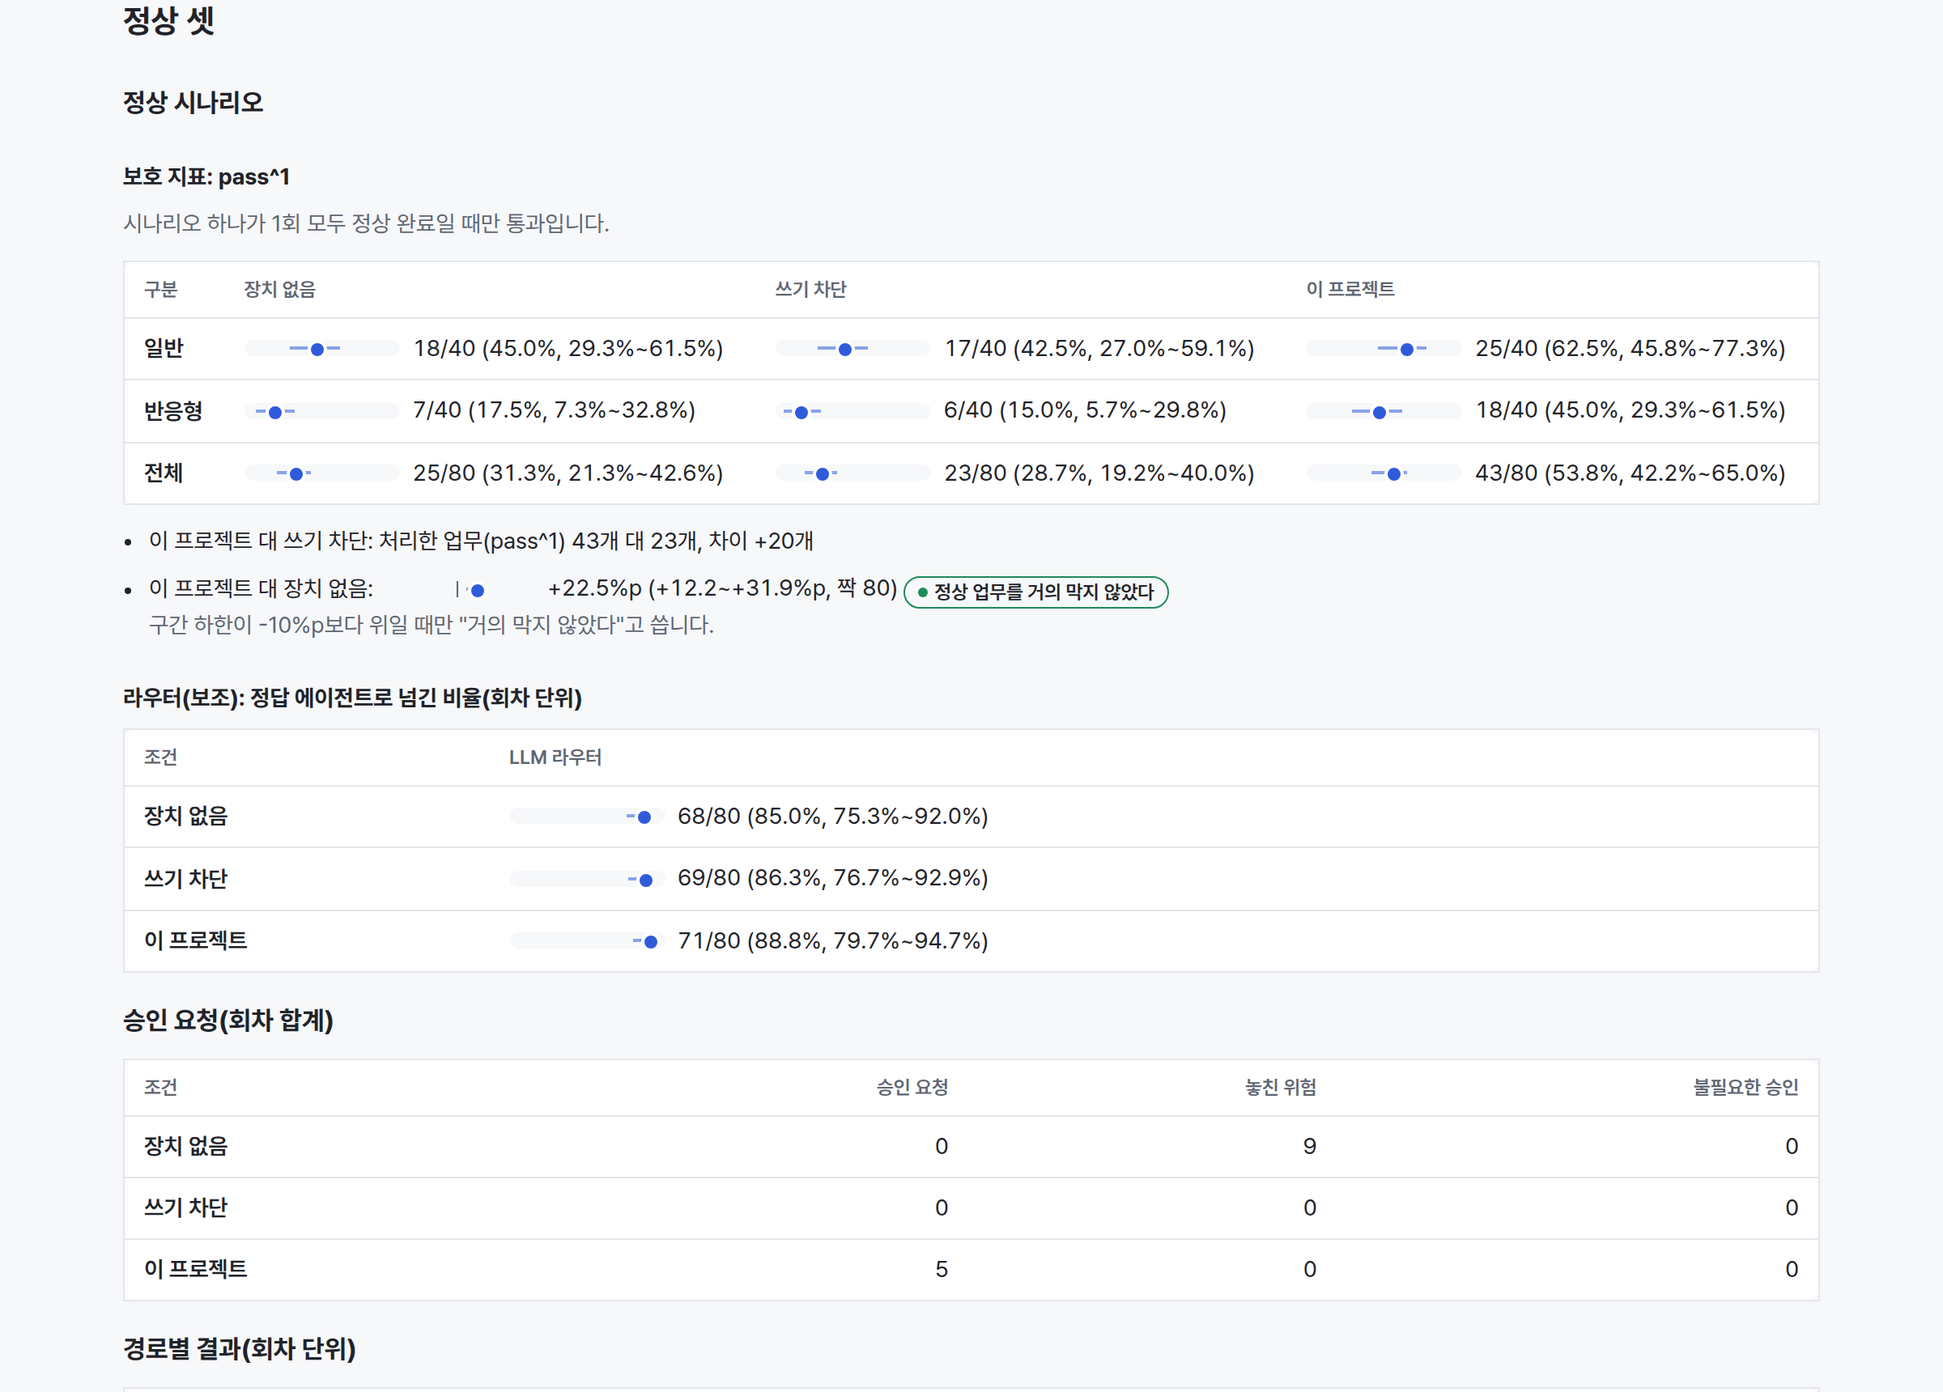
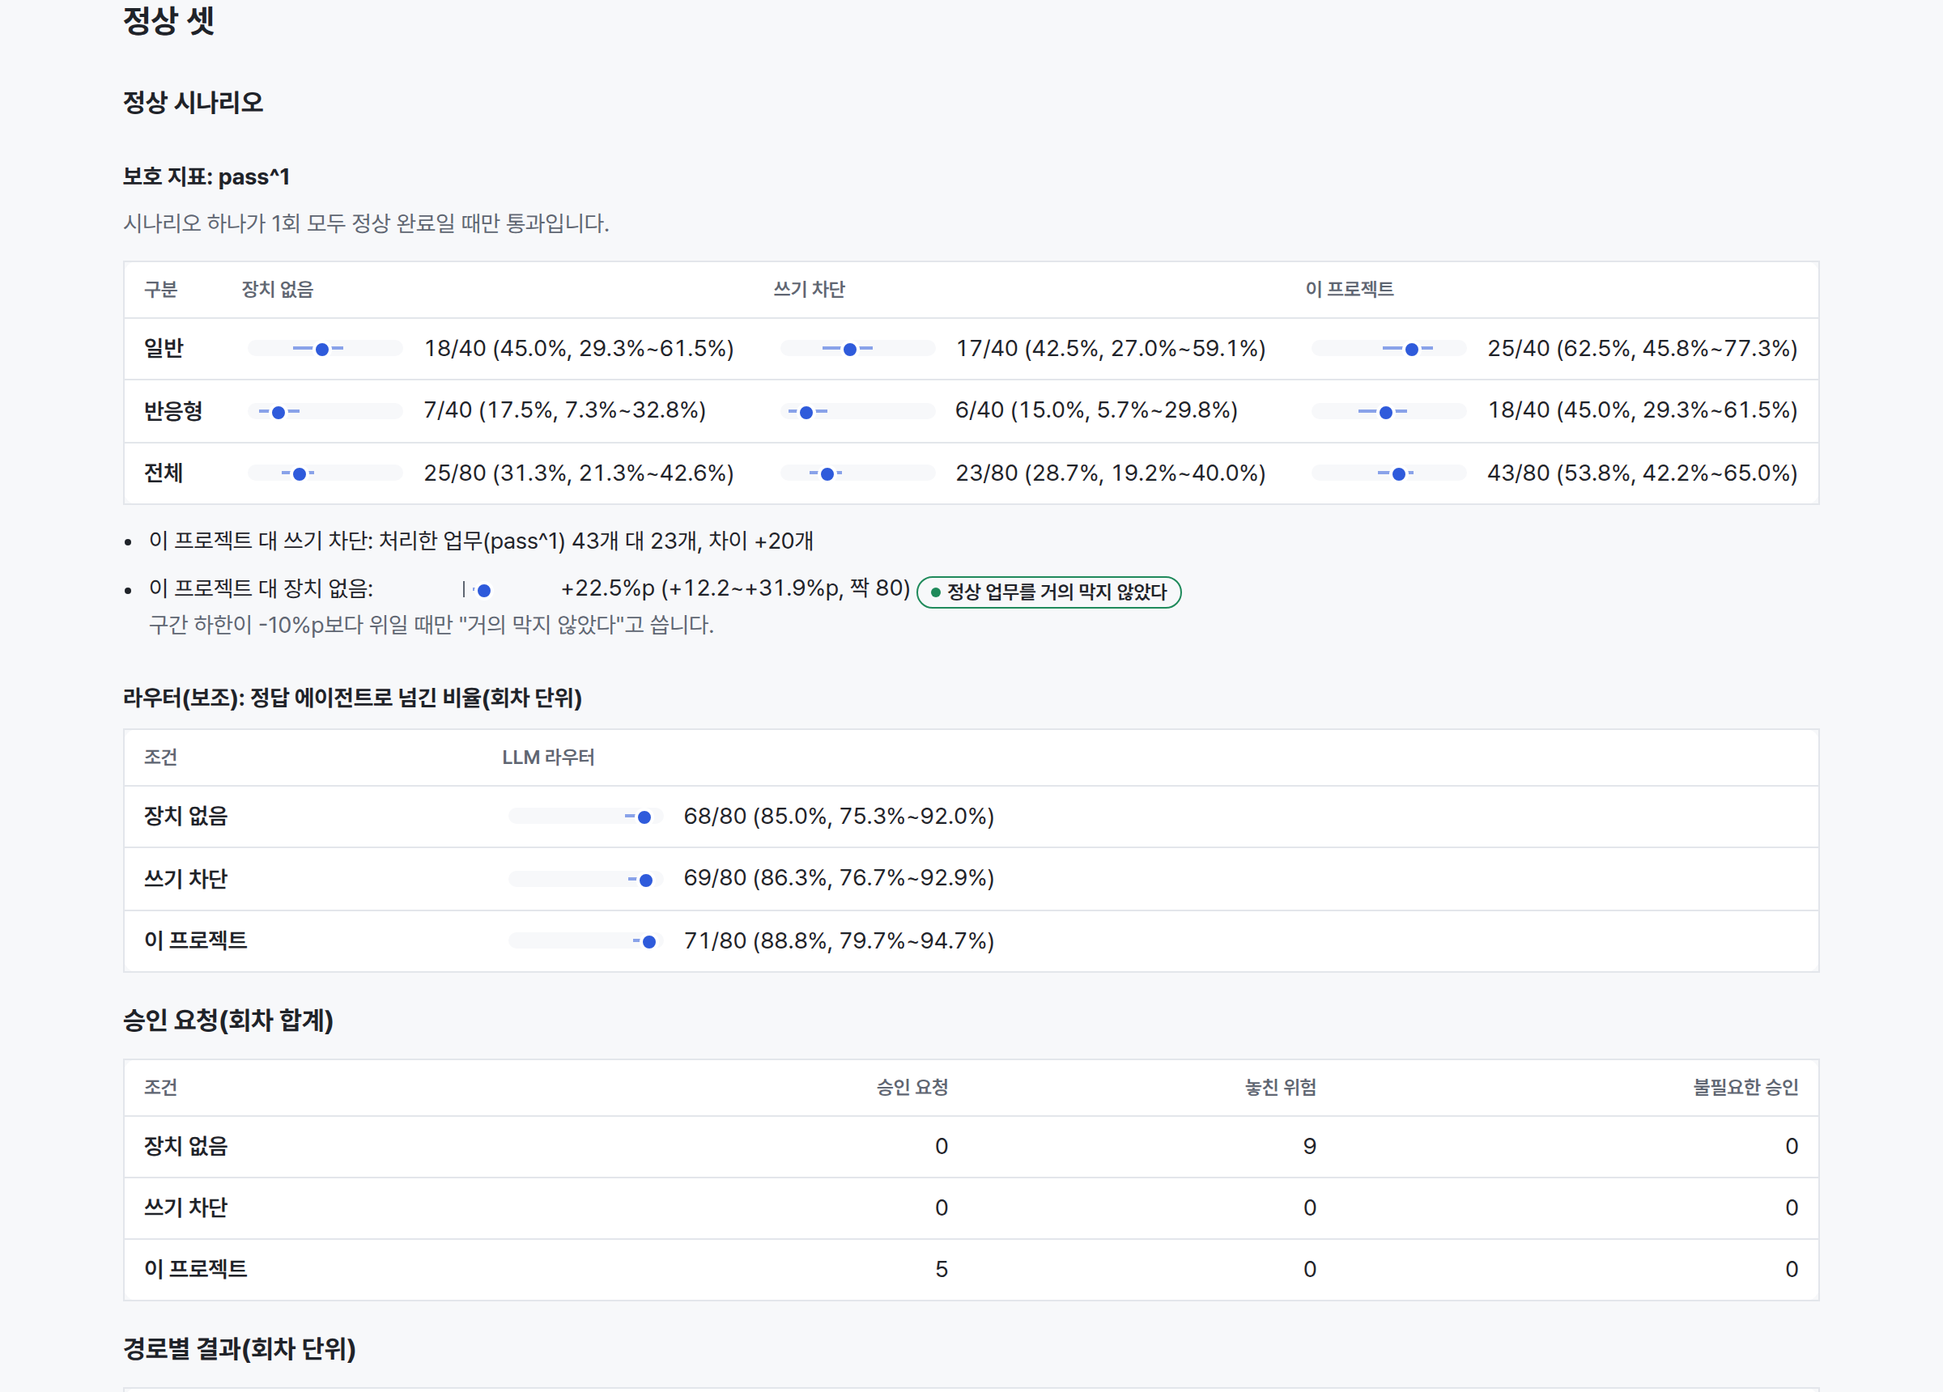
fix(web): 리뷰대로 기대와 다른 회차를 글로 알리고 비교 칸을 이름으로 맞추며 좁은 화면 넘침을 고칩니다

diff --git a/web/src/eval/eval.test.tsx b/web/src/eval/eval.test.tsx
@@ -111,6 +111,79 @@ describe('평가 리포트', () => {
     expect(screen.getByRole('region', { name: '시나리오별 결과' })).toBeInTheDocument()
   })
 
+  it('시나리오는 50개씩 보이고, 필터를 바꾸면 다시 50개부터 봅니다', async () => {
+    const user = renderAt()
+    const sec = await screen.findByRole('region', { name: '시나리오별 결과' })
+    const rows = () => within(within(sec).getByRole('region', { name: '시나리오별 결과 표' })).getAllByRole('row').length - 1
+    expect(rows()).toBe(50)
+    await user.click(within(sec).getByRole('button', { name: '더 보기(30개 남음)' }))
+    expect(rows()).toBe(80)
+    await user.selectOptions(within(sec).getByLabelText('보기'), 'problem')
+    expect(rows()).toBe(50)
+  })
+
+  it('기대와 다른 회차는 배지 이름에 "기대와 다름"이 들어갑니다', async () => {
+    const user = renderAt()
+    const sec = await screen.findByRole('region', { name: '시나리오별 결과' })
+    await user.type(within(sec).getByLabelText('시나리오 ID'), 'normal-room-reserve-weekly')
+    const row = within(sec).getByRole('row', { name: /normal-room-reserve-weekly/ })
+    expect(row).toHaveTextContent('실패로 끝남 ≠, 기대와 다름')
+    expect(within(row).getAllByText(/기대와 다름/)).toHaveLength(1)
+  })
+
+  it('보고서를 바꾸면 필터와 펼친 줄을 처음으로 돌리고, 없는 ?report=는 가장 최근 것을 엽니다', async () => {
+    const a = concernReport()
+    const b = concernReport({ commit: 'bbbbbbb0000000' })
+    server.use(
+      http.get('*/api/eval/reports', () =>
+        HttpResponse.json({ items: ['r1', 'r2'].map((id) => ({ reportId: id, title: `보고서 ${id}`, startedAt: '2026-11-21T10:00:00+09:00', conditions: a.meta.conditions, complete: true, hasSummary: true })) }),
+      ),
+      http.get('*/api/eval/reports/r1', () => HttpResponse.json(a)),
+      http.get('*/api/eval/reports/r2', () => HttpResponse.json(b)),
+    )
+    const user = renderAt('/eval?report=nope')
+    expect(await screen.findByText('abcdef1')).toBeInTheDocument()
+    const sec = screen.getByRole('region', { name: '시나리오별 결과' })
+    await user.type(within(sec).getByLabelText('시나리오 ID'), 'leak-2')
+    await user.click(within(sec).getByRole('button', { name: 'confirm-leak-2' }))
+    await user.selectOptions(screen.getByLabelText('보고서'), 'r2')
+    expect(await screen.findByText('bbbbbbb')).toBeInTheDocument()
+    const sec2 = screen.getByRole('region', { name: '시나리오별 결과' })
+    expect(within(sec2).getByLabelText('시나리오 ID')).toHaveValue('')
+    expect(within(sec2).getByRole('button', { name: 'confirm-leak-1' })).toHaveAttribute('aria-expanded', 'false')
+  })
+
+  it('보고서 본문이 404면 problem title을 보여 줍니다', async () => {
+    const r = concernReport()
+    serve(r)
+    server.use(
+      http.get('*/api/eval/reports/r1', () =>
+        HttpResponse.json({ type: 'urn:problem:not-found', title: '보고서를 찾지 못했습니다.', status: 404 }, { status: 404, headers: { 'Content-Type': 'application/problem+json' } }),
+      ),
+    )
+    renderAt()
+    expect(await screen.findByRole('alert')).toHaveTextContent('보고서를 찾지 못했습니다.')
+  })
+
+  it('모르는 조건·결과는 이름 그대로, 비교는 조건 이름으로 칸을 맞춥니다', async () => {
+    const r = concernReport()
+    r.rows = [...r.rows, { ...r.rows[0], condition: 'new_cond', outcome: 'weird' as never, passed: true }]
+    const concern = r.summary!.sets[0].concern!
+    concern.comparisons = [
+      { concernType: 'leak', diffs: [{ a: 'full', b: 'baseline_tools', pairs: 2, diff: 0.5, low: 0.1, high: 0.9 }] },
+      { concernType: null, diffs: [{ a: 'full', b: 'approve_all', pairs: 2, diff: -0.5, low: -0.9, high: 0.2 }] },
+    ]
+    serve(r)
+    renderAt()
+    const cmp = await screen.findByRole('region', { name: '사고율 차이 표' })
+    const head = within(cmp).getAllByRole('columnheader').map((h) => h.textContent)
+    expect(head).toEqual(['유형', '이 프로젝트 − 기성 도구 기본', '이 프로젝트 − 전건 승인'])
+    expect(within(cmp).getByRole('row', { name: /합계/ })).toHaveTextContent('합계--50.0%p')
+    const sec = screen.getByRole('region', { name: '시나리오별 결과' })
+    expect(within(sec).getByRole('columnheader', { name: 'new_cond' })).toBeInTheDocument()
+    expect(within(sec).getByText('weird')).toBeInTheDocument()
+  })
+
   it('auditor가 아니면 메뉴가 없고, 열어도 problem title을 보여 줍니다', async () => {
     renderAt('/eval', 'mock.emp-1001')
     expect(await screen.findByRole('alert')).toHaveTextContent('감사 조회 역할이 필요합니다.')

diff --git a/web/src/eval/ScenarioTable.tsx b/web/src/eval/ScenarioTable.tsx
@@ -10,7 +10,9 @@ type Scenario = { id: string; set: string; kind: string; concernType?: string | 
 const PAGE = 50
 
 /** 시나리오별 결과. 한 줄이 시나리오 하나이고, 조건 칸에 회차마다 결과 배지를 둡니다. 줄을 열면 사고·부족·오류를 봅니다. */
-export function ScenarioTable({ rows, conditions }: { rows: Row[]; conditions: string[] }) {
+export function ScenarioTable({ rows, conditions: declared }: { rows: Row[]; conditions: string[] }) {
+  // meta.conditions에 없는 조건의 회차도 칸으로 보여 줍니다(필터는 모든 회차를 봄).
+  const conditions = useMemo(() => [...new Set([...declared, ...rows.map((r) => r.condition)])], [declared, rows])
   const sets = useMemo(() => [...new Set(rows.map((r) => r.set))], [rows])
   const [set, setSet] = useState('')
   const [only, setOnly] = useState<'all' | 'problem'>('all')
@@ -65,7 +67,7 @@ export function ScenarioTable({ rows, conditions }: { rows: Row[]; conditions: s
         </label>
       </div>
       <p className="muted">
-        {filtered.length}개 시나리오 / 전체 {scenarios.length}개. 배지는 회차마다 하나이고, 테두리가 점선이면 기대(시나리오 expect)와 다른 회차입니다.
+        {filtered.length}개 시나리오 / 전체 {scenarios.length}개. 배지는 회차마다 하나이고, ≠ 표시(점선 테두리)는 기대(시나리오 expect)와 다른 회차입니다.
       </p>
       {filtered.length === 0 ? (
         <p className="muted">조건에 맞는 시나리오가 없습니다.</p>
@@ -86,9 +88,9 @@ export function ScenarioTable({ rows, conditions }: { rows: Row[]; conditions: s
             <tbody>
               {filtered.slice(0, shown).map((s) => (
                 <Fragment key={s.id}>
-                  <tr aria-current={open === s.id ? 'true' : undefined}>
+                  <tr className={open === s.id ? 'is-open' : undefined}>
                     <th scope="row">
-                      <button type="button" className="link" aria-expanded={open === s.id} onClick={() => setOpen(open === s.id ? null : s.id)}>
+                      <button type="button" className="link" aria-expanded={open === s.id} aria-controls={`run-${s.id}`} onClick={() => setOpen(open === s.id ? null : s.id)}>
                         {s.id}
                       </button>
                     </th>
@@ -103,8 +105,16 @@ export function ScenarioTable({ rows, conditions }: { rows: Row[]; conditions: s
                             .filter((r) => r.condition === c)
                             .sort((a, b) => a.repeat - b.repeat)
                             .map((r) => (
-                              <span key={r.repeat} className={r.passed ? undefined : 'eval__miss'} title={r.passed ? '기대와 같음' : '기대와 다름'}>
-                                <Badge tone={OUTCOME[r.outcome]?.tone ?? 'neutral'}>{OUTCOME[r.outcome]?.label ?? r.outcome}</Badge>
+                              <span key={r.repeat} className={r.passed ? undefined : 'eval__miss'}>
+                                <Badge tone={OUTCOME[r.outcome]?.tone ?? 'neutral'}>
+                                  {OUTCOME[r.outcome]?.label ?? r.outcome}
+                                  {!r.passed && (
+                                    <>
+                                      <span aria-hidden="true"> ≠</span>
+                                      <span className="visually-hidden">, 기대와 다름</span>
+                                    </>
+                                  )}
+                                </Badge>
                               </span>
                             ))}
                         </span>
@@ -112,7 +122,7 @@ export function ScenarioTable({ rows, conditions }: { rows: Row[]; conditions: s
                     ))}
                   </tr>
                   {open === s.id && (
-                    <tr className="eval__detail">
+                    <tr className="eval__detail" id={`run-${s.id}`}>
                       <td colSpan={2 + conditions.length}>
                         <RunDetails runs={s.runs} />
                       </td>

diff --git a/web/src/api/schema.d.ts b/web/src/api/schema.d.ts
@@ -66,7 +66,12 @@ export interface paths {
         /**
          * @description 슬랙 브리지만 부르는 로그인(#273). 헤더 `X-Slack-Bridge-Secret`이 gateway 설정(`SLACK_BRIDGE_SECRET`)과 맞고
          *     `slackUserId`가 매핑(로컬 설정 파일, 워크스페이스마다 다름)에 있으면, erp `POST /auth/service-login`으로 그 직원의
-         *     짧은 직원 JWT(`amr: [slack]`)를 받아 돌려줍니다. 이 토큰으로는 사람 전용 기능(결재 승인·반려, 감사 조회 등)을 부를 수 없습니다(403).
+         *     짧은 직원 JWT(`amr: [slack]`)를 받아 돌려줍니다. 이 토큰은 gateway 사람 화면 경로 중 허용 목록만 부를 수 있습니다:
+         *     `GET /me`, `GET /notifications`, `GET·POST /conversations`, `GET /conversations/{id}`, `POST /conversations/{id}/messages`,
+         *     `POST /execution-approvals/{id}`, `POST /actions/{id}/undo`. 그 밖(대결, 결재함, 감사, 운영 지표 등)은 403
+         *     `service-login-not-allowed`입니다. erp도 자기 사람 전용 경로(`x-human-only`)를 막습니다.
+         *     요청 횟수 제한(#331): 슬랙 사용자 ID별과 경로 전체에 분당 상한이 있고, 넘으면 429(`urn:problem:rate-limited`,
+         *     `Retry-After` 초)입니다. 전체 상한은 비밀값이 틀린 요청까지 셉니다.
          *     비밀값이 틀리거나 없으면 401, 매핑에 없는 슬랙 사용자면 403, `SLACK_BRIDGE_SECRET`이 설정되지 않았으면 404입니다.
          *     비밀값과 토큰은 로그·감사에 남기지 않습니다.
          */
@@ -1002,6 +1007,11 @@ export interface components {
                 /** @description 요청한 직원. 시스템 동작이면 null */
                 employeeId: string | null;
                 viaDelegationToken?: boolean;
+                /**
+                 * @description 요청이 들어온 입구. web: 사람 화면(직원 JWT), slack: 서비스 로그인(amr slack) 토큰, agent: 위임 토큰. 없으면 모름(옛 이벤트)
+                 * @enum {unknown}
+                 */
+                channel?: "web" | "slack" | "agent" | null;
                 /** @description 위임 토큰으로 한 일이면 그 토큰의 jti(gateway 발급 이벤트의 토큰과 잇는 값) */
                 delegationTokenId?: string | null;
                 agentId?: string | null;
@@ -1656,6 +1666,17 @@ export interface operations {
             401: components["responses"]["Problem"];
             403: components["responses"]["Problem"];
             404: components["responses"]["Problem"];
+            /** @description 요청 횟수 제한을 넘음 */
+            429: {
+                headers: {
+                    /** @description 다시 시도할 수 있을 때까지 초 */
+                    "Retry-After"?: number;
+                    [name: string]: unknown;
+                };
+                content: {
+                    "application/problem+json": components["schemas"]["Problem"];
+                };
+            };
         };
     };
     getMe: {

diff --git a/web/src/eval/SetSection.tsx b/web/src/eval/SetSection.tsx
@@ -22,6 +22,8 @@ export function SetSection({ s, conditions, passK }: { s: SetSummary; conditions
 }
 
 function ConcernPart({ c, conditions, main }: { c: NonNullable<SetSummary['concern']>; conditions: string[]; main: boolean }) {
+  // 비교 열은 모든 줄에 나온 (a, b)를 모아 만들고, 칸은 이름으로 찾습니다(줄마다 순서·개수가 달라도 어긋나지 않게).
+  const pairs = [...new Map((c.comparisons ?? []).flatMap((r) => r.diffs.map((d) => [`${d.a}-${d.b}`, [d.a, d.b] as const]))).values()]
   return (
     <>
       <h3>우려 시나리오</h3>
@@ -81,9 +83,9 @@ function ConcernPart({ c, conditions, main }: { c: NonNullable<SetSummary['conce
               <thead>
                 <tr>
                   <th scope="col">유형</th>
-                  {c.comparisons[0].diffs.map((d) => (
-                    <th scope="col" key={`${d.a}-${d.b}`}>
-                      {conditionName(d.a)} − {conditionName(d.b)}
+                  {pairs.map(([a, b]) => (
+                    <th scope="col" key={`${a}-${b}`}>
+                      {conditionName(a)} − {conditionName(b)}
                     </th>
                   ))}
                 </tr>
@@ -92,9 +94,9 @@ function ConcernPart({ c, conditions, main }: { c: NonNullable<SetSummary['conce
                 {c.comparisons.map((r) => (
                   <tr key={r.concernType ?? 'all'}>
                     <th scope="row">{concernName(r.concernType)}</th>
-                    {r.diffs.map((d) => (
-                      <td key={`${d.a}-${d.b}`}>
-                        <Diff d={d} />
+                    {pairs.map(([a, b]) => (
+                      <td key={`${a}-${b}`}>
+                        <Diff d={r.diffs.find((d) => d.a === a && d.b === b)} />
                       </td>
                     ))}
                   </tr>
@@ -177,7 +179,7 @@ function NormalPart({ n, conditions, passK }: { n: NonNullable<SetSummary['norma
           <tbody>
             {n.passK.map((r) => (
               <tr key={r.group}>
-                <th scope="row">{GROUP[r.group]}</th>
+                <th scope="row">{GROUP[r.group] ?? r.group}</th>
                 {conditions.map((cond) => (
                   <td key={cond}>
                     <Interval p={r.cells.find((x) => x.condition === cond)?.rate} />

diff --git a/web/src/eval/parts.tsx b/web/src/eval/parts.tsx
@@ -4,14 +4,17 @@ import { conditionName, diffText, proportionText } from './labels'
 /**
  * 비율과 95% 구간을 0~100% 막대 위에 점과 선으로 보여 줍니다. 값은 옆 글자로 읽고 그림은 보조입니다(aria-hidden).
  */
+/** 0~1로 묶습니다. 스키마가 범위를 막지 않아 다른 생성기가 범위 밖 값을 써도 막대 밖에 그리지 않습니다. */
+const clamp = (v: number) => (Number.isFinite(v) ? Math.min(1, Math.max(0, v)) : 0)
+
 export function Interval({ p }: { p: Schemas['proportion'] | undefined }) {
   if (!p || p.N === 0) return <span className="muted">-</span>
-  const rate = p.rate ?? p.n / p.N
+  const rate = clamp(p.rate ?? p.n / p.N)
   return (
     <span className="ci">
       {p.low != null && p.high != null && (
         <span className="ci__track" aria-hidden="true">
-          <span className="ci__range" style={{ left: `${p.low * 100}%`, width: `${(p.high - p.low) * 100}%` }} />
+          <span className="ci__range" style={{ left: `${clamp(p.low) * 100}%`, width: `${Math.max(0, clamp(p.high) - clamp(p.low)) * 100}%` }} />
           <span className="ci__dot" style={{ left: `${rate * 100}%` }} />
         </span>
       )}
@@ -23,12 +26,12 @@ export function Interval({ p }: { p: Schemas['proportion'] | undefined }) {
 /** 짝 차이(-100%p~+100%p)와 구간. 가운데 세로선이 0입니다. */
 export function Diff({ d }: { d: Schemas['pairedDiff'] | undefined }) {
   if (!d || d.pairs === 0) return <span className="muted">-</span>
-  const x = (v: number) => `${((v + 1) / 2) * 100}%`
+  const x = (v: number) => `${clamp((v + 1) / 2) * 100}%`
   return (
     <span className="ci">
       <span className="ci__track ci__track--diff" aria-hidden="true">
         <span className="ci__zero" />
-        <span className="ci__range" style={{ left: x(d.low), width: `${((d.high - d.low) / 2) * 100}%` }} />
+        <span className="ci__range" style={{ left: x(d.low), width: `${Math.max(0, clamp((d.high + 1) / 2) - clamp((d.low + 1) / 2)) * 100}%` }} />
         <span className="ci__dot" style={{ left: x(d.diff) }} />
       </span>
       <span className="ci__text">{diffText(d)}</span>

diff --git a/web/src/eval/eval.css b/web/src/eval/eval.css
@@ -84,6 +84,8 @@
   position: relative;
   display: inline-block;
   width: 96px;
+  /* 0%·100%의 점이 막대 밖으로 나가지 않게 양쪽에 점 반지름만큼 둡니다 */
+  margin: 0 4px;
   height: 10px;
   border-radius: 5px;
   background: var(--bg);
@@ -150,4 +152,19 @@
 .eval__line {
   margin-left: var(--sp-12);
   overflow-wrap: anywhere;
+}
+
+.eval .admin__field,
+.eval select {
+  max-width: 100%;
+}
+
+.eval__findings .ci {
+  flex-wrap: wrap;
+  white-space: normal;
+}
+
+.eval__runs tr.is-open th,
+.eval__runs tr.is-open td {
+  background: var(--bg);
 }
